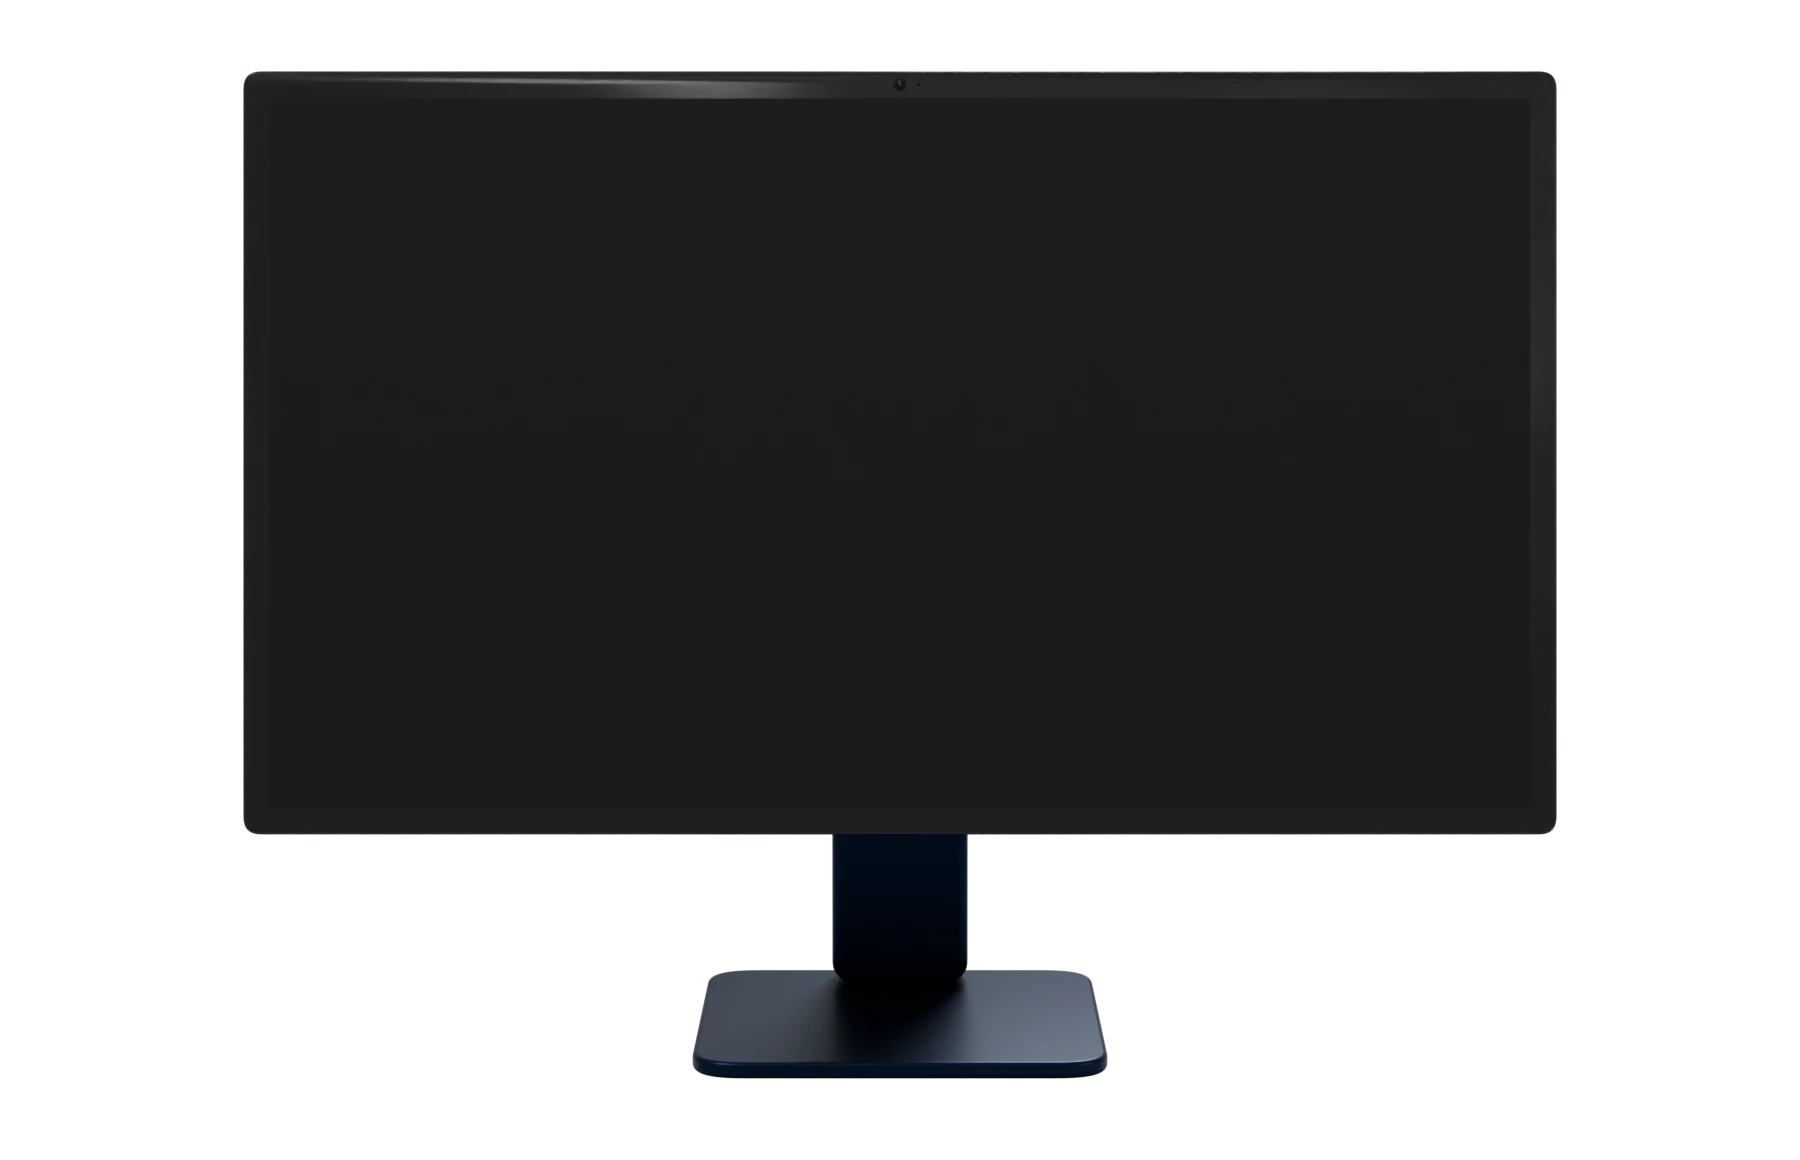
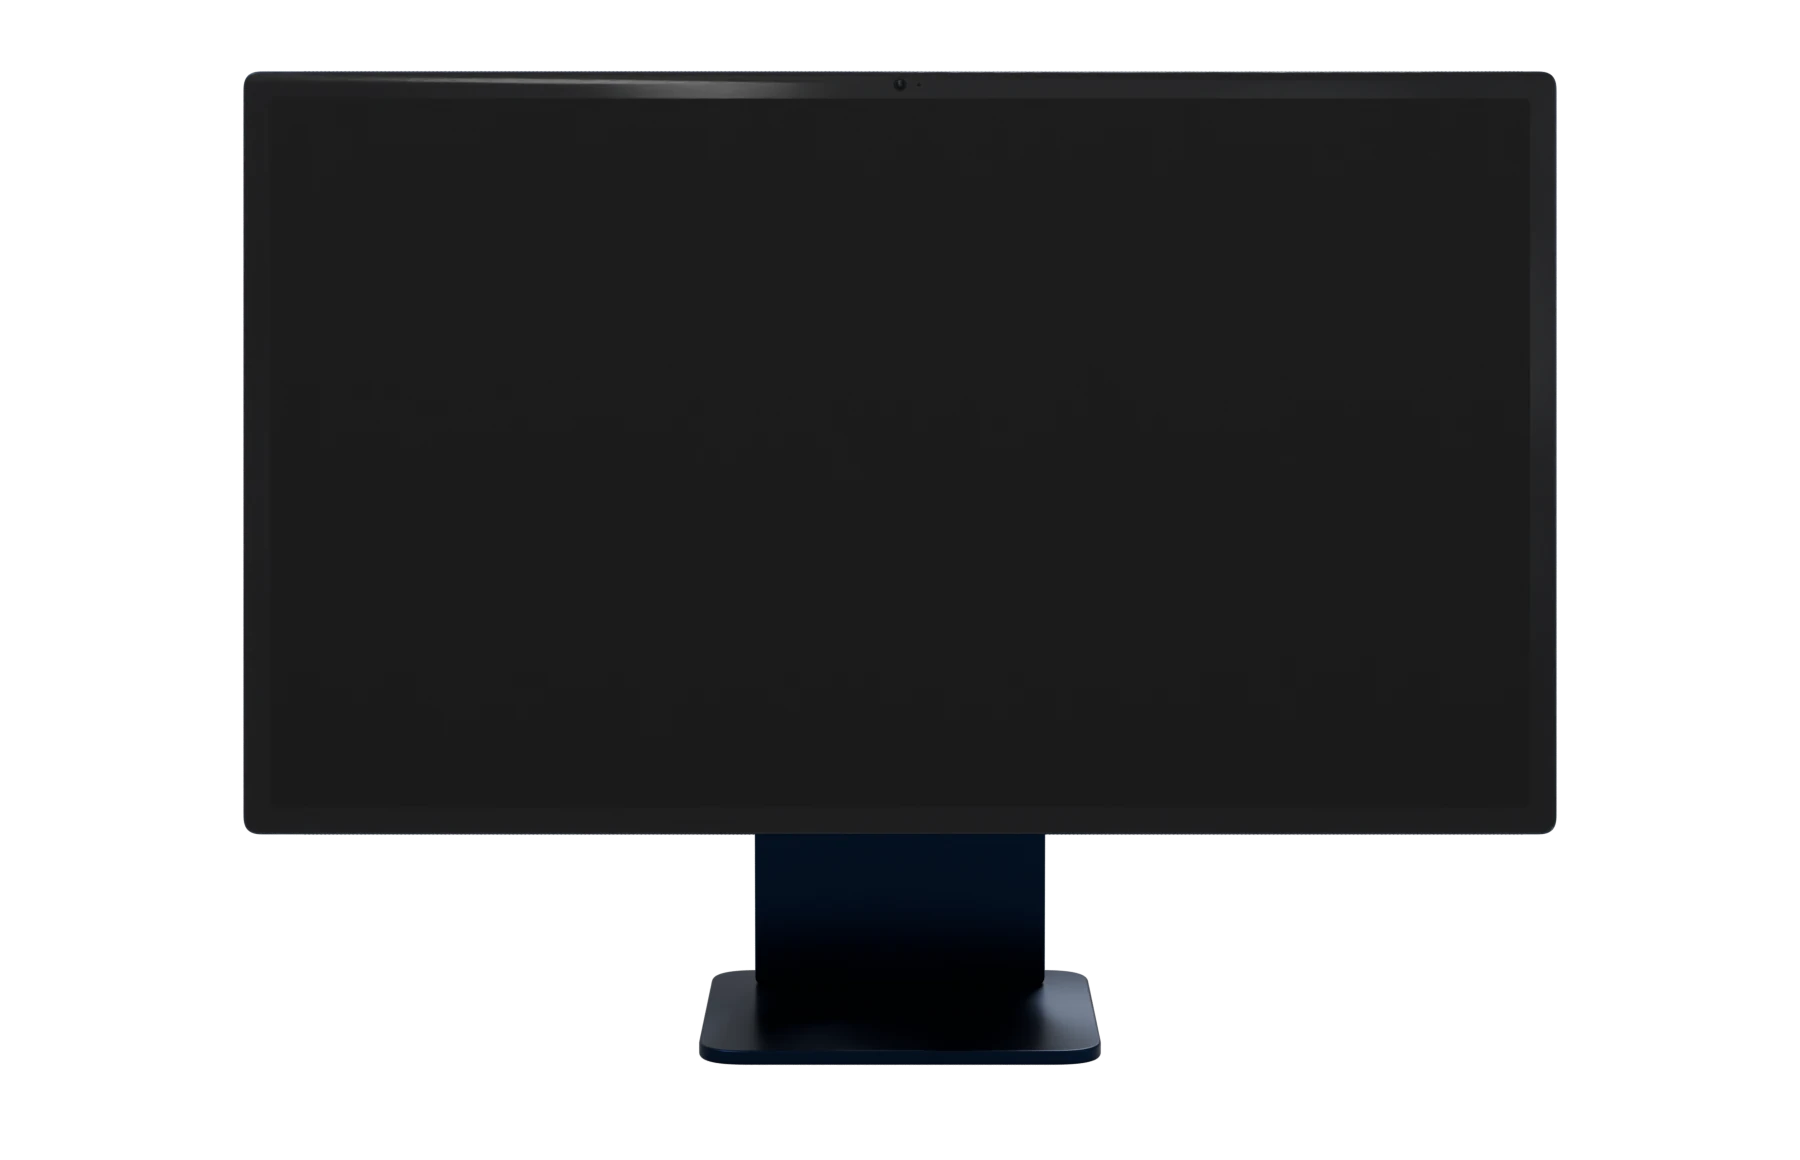
Landing : appareils mis à jour avec les derniers modèles Blender (écran v2, téléphone v4)
- pc.webp : rendu de studio_display_xdr_bleunuit_v2.blend (nouveau pied) ; ph.webp : rendu de
  telephone_promax_bleunuit_v4.blend ; tab.webp inchangé (fichier iPad identique à l'octet près)
- mêmes réglages de rendu qu'avant (Cycles 160 échantillons, vue de face, fond transparent, écran noir) ;
  la dalle des deux modèles est identique : coins de l'écran inchangés dans manifest.json
- manifest.json : « src » nomme le fichier .blend source de chaque image

Claude-Session: https://claude.ai/code/session_01HoSGpfVUjMXuukfnj9qXHr

Changed region(s): [[0.3733, 0.7138, 0.6222, 0.931]]

diff --git a/tests/landing3d.test.js b/tests/landing3d.test.js
@@ -23,6 +23,8 @@ test('landing 3D : manifeste complet, une image WebP de face par appareil, poids
     assert.strictEqual(m.front.length, 4, k + ' : 4 coins de la dalle');
     assert.ok(m.front.every(c => c.length === 2 && c.every(Number.isFinite)), k + ' : coins');
     assert.ok(m.W > 500 && m.H > 500 && m.rad >= 0 && m.down > 0.4 && m.up > 0.4, k + ' : métadonnées');
+    /* traçabilité : le fichier .blend de Pierre dont l'image est le rendu (écran v2, iPad v2, téléphone v4 au 12/11) */
+    assert.ok(/^[\w.-]+\.blend$/.test(m.src), k + ' : fichier source');
     /* dalle rectangulaire de face : coins alignés (translation + échelle suffisent pour y poser le HTML) */
     const f = m.front;
     assert.ok(Math.abs(f[0][1] - f[1][1]) < 1 && Math.abs(f[0][0] - f[3][0]) < 1 && f[1][0] > f[0][0] && f[3][1] > f[0][1], k + ' : dalle de face');

diff --git a/landing/3d/lp3d.js b/landing/3d/lp3d.js
@@ -4,6 +4,8 @@
    texte, cliquable) est posé sur la dalle dont les 4 coins ont été mesurés dans Blender (translation + échelle, pas de
    perspective : texte net). Pendant les transitions, les images se fondent l'une dans l'autre.
    Un 2ᵉ canvas, au-dessus du HTML en mélange « screen », y repose très légèrement les reflets du verre.
+   img/manifest.json : pour chaque appareil, les 4 coins de la dalle dans l'image, son étendue autour de l'écran et « src »,
+   le fichier .blend dont l'image est le rendu (à mettre à jour avec l'image quand Pierre livre une nouvelle version).
    Rien d'externe (CSP) ; si quoi que ce soit échoue, js/23-landing.js garde l'appareil CSS d'origine. */
 const BASE = new URL('./img/', import.meta.url);
 const KEYS = ['pc', 'tab', 'ph'];

diff --git a/COORDINATION.md b/COORDINATION.md
@@ -78,7 +78,7 @@ Tableau exhaustif, la PR la plus récente en haut. Rempli rétroactivement le 20
 
 | PR | Titre | Auteur | Branche | Statut | Résumé + fichiers principaux | Migration SQL |
 |---|---|---|---|---|---|---|
-| (à venir) | Landing : appareils rendus par Blender (écran Studio Display XDR, iPad Pro, iPhone Pro Max) à la place des appareils CSS | Claude | `claude/landing-3d-devices` | **en cours (aperçu Vercel, pas de PR)** | Demande de Pierre (12/11) : utiliser ses fichiers Blender tels quels, appareil FIXE (de face, ni curseur, ni inclinaison, ni flottement). Rendus Cycles/AgX des `.blend` (module `bpy`), fond transparent, écran noir, vue de face : `landing/3d/img/{pc,tab,ph}.webp` + `manifest.json` (coins de la dalle mesurés dans Blender). Le HTML des écrans (`.lp-s`) est posé sur la dalle (translation + échelle, texte net) ; 2ᵉ canvas de reflets du verre au-dessus (`mix-blend-mode:screen`). Ordinateur > 860 px seulement ; repli sur l'appareil CSS si images absentes/lentes ; `?lp3d=off` le coupe. Pas de Three.js. **Audit visuel du 12/11 (Lighthouse, axe-core, règles d'interface Vercel, captures 5 tailles d'écran) — corrections objectives** : (1) accueil toujours sombre, `js/00-theme.js` force `dark` tant que `html.lp-guest` (un OS en mode clair donnait des onglets blancs dans le formulaire, une liste de langues noire sur noir, « cin » invisible dans le logo) ; (2) écrans ≤ 880 px de haut (1366×768, 1280×720, 1536×864) : titre calé sur la hauteur, bouton principal de nouveau visible, pied de l'écran dans le cadre ; (3) plus de repli « lenteur » qui remplaçait l'appareil Blender par l'appareil CSS en cours de page ; (4) typographie française des chaînes `lp.*` (apostrophes courbes, espaces insécables) dans `js/i18n/fr.js` et `index.html` ; (5) chiffres à largeur fixe sur les compteurs. **Suite de l'audit (points 1 à 6 et 8 demandés par Pierre)** : mobile — accueil en bas du premier écran sous l'appareil (le `display:flex` du chapitre 0 manquait depuis le 27/10), marge de 20 px, voile fondu ; paragraphe entier dans le bandeau de texte ; PC et tablette mis en page sur une surface logique plus petite (`LP_DEV_M`) et appareil étendu à la place libre → contenu des écrans ~+50 % ; ordinateur — passage de témoin des textes de chapitre calé sur l'arrivée du texte suivant (plus de colonne vide), appareil à 50 vw × 78 vh, écran final lisible, l'appareil ne bouge plus pendant les premiers pixels de défilement ; accueil mobile ancré en bas par `top:100%` + `translateY(-100%)` (pas par `flex-end`, qui faisait compter tout le bloc comme décalé : CLS 0,19) et boutons empilés sous 480 px (le second passait ou non à la ligne selon la langue) — CLS mobile Lighthouse 0,006 ; poids — liste des langues en police système (`css/app.css` › `.lang-pick`, −404 Ko de polices par visiteur, vaut aussi pour l'application) ; nettoyage — 23 règles mortes et 2 `@keyframes` retirés de `landing/landing.css`, `!important` 49 → 23 (vérifié par comparaison des styles calculés sur 44 états ; seul effet : le mouvement réduit est maintenant respecté sur mobile pour la grille et le bandeau). Tests : `tests/landing-audit.test.js`, `e2e/landing-audit.test.mjs` ; `e2e/preview-handoff.test.mjs` connaît l'extension `.webp`. Fichiers : `landing/3d/`, `js/00-theme.js`, `js/i18n/fr.js`, `index.html` (2 canvas), `js/23-landing.js` (hook dans `frame()`, appareil fixe), `landing/landing.css` (fin de fichier), `tests/landing3d.test.js`, `e2e/landing3d.test.mjs`, `COORDINATION.md`. | Non |
+| (à venir) | Landing : appareils rendus par Blender (écran Studio Display XDR, iPad Pro, iPhone Pro Max) à la place des appareils CSS | Claude | `claude/landing-3d-devices` | **en cours (aperçu Vercel, pas de PR)** | Demande de Pierre (12/11) : utiliser ses fichiers Blender tels quels, appareil FIXE (de face, ni curseur, ni inclinaison, ni flottement). Rendus Cycles/AgX des `.blend` (module `bpy`), fond transparent, écran noir, vue de face : `landing/3d/img/{pc,tab,ph}.webp` + `manifest.json` (coins de la dalle mesurés dans Blender). Le HTML des écrans (`.lp-s`) est posé sur la dalle (translation + échelle, texte net) ; 2ᵉ canvas de reflets du verre au-dessus (`mix-blend-mode:screen`). Ordinateur > 860 px seulement ; repli sur l'appareil CSS si images absentes/lentes ; `?lp3d=off` le coupe. Pas de Three.js. **Audit visuel du 12/11 (Lighthouse, axe-core, règles d'interface Vercel, captures 5 tailles d'écran) — corrections objectives** : (1) accueil toujours sombre, `js/00-theme.js` force `dark` tant que `html.lp-guest` (un OS en mode clair donnait des onglets blancs dans le formulaire, une liste de langues noire sur noir, « cin » invisible dans le logo) ; (2) écrans ≤ 880 px de haut (1366×768, 1280×720, 1536×864) : titre calé sur la hauteur, bouton principal de nouveau visible, pied de l'écran dans le cadre ; (3) plus de repli « lenteur » qui remplaçait l'appareil Blender par l'appareil CSS en cours de page ; (4) typographie française des chaînes `lp.*` (apostrophes courbes, espaces insécables) dans `js/i18n/fr.js` et `index.html` ; (5) chiffres à largeur fixe sur les compteurs. **Suite de l'audit (points 1 à 6 et 8 demandés par Pierre)** : mobile — accueil en bas du premier écran sous l'appareil (le `display:flex` du chapitre 0 manquait depuis le 27/10), marge de 20 px, voile fondu ; paragraphe entier dans le bandeau de texte ; PC et tablette mis en page sur une surface logique plus petite (`LP_DEV_M`) et appareil étendu à la place libre → contenu des écrans ~+50 % ; ordinateur — passage de témoin des textes de chapitre calé sur l'arrivée du texte suivant (plus de colonne vide), appareil à 50 vw × 78 vh, écran final lisible, l'appareil ne bouge plus pendant les premiers pixels de défilement ; accueil mobile ancré en bas par `top:100%` + `translateY(-100%)` (pas par `flex-end`, qui faisait compter tout le bloc comme décalé : CLS 0,19) et boutons empilés sous 480 px (le second passait ou non à la ligne selon la langue) — CLS mobile Lighthouse 0,006 ; modèles Blender mis à jour le 12/11 (écran `studio_display_xdr_bleunuit_v2.blend`, téléphone `telephone_promax_bleunuit_v4.blend` ; iPad inchangé) — mêmes réglages de rendu, dalle identique, `manifest.json` › `src` nomme le fichier source de chaque image ; poids — liste des langues en police système (`css/app.css` › `.lang-pick`, −404 Ko de polices par visiteur, vaut aussi pour l'application) ; nettoyage — 23 règles mortes et 2 `@keyframes` retirés de `landing/landing.css`, `!important` 49 → 23 (vérifié par comparaison des styles calculés sur 44 états ; seul effet : le mouvement réduit est maintenant respecté sur mobile pour la grille et le bandeau). Tests : `tests/landing-audit.test.js`, `e2e/landing-audit.test.mjs` ; `e2e/preview-handoff.test.mjs` connaît l'extension `.webp`. Fichiers : `landing/3d/`, `js/00-theme.js`, `js/i18n/fr.js`, `index.html` (2 canvas), `js/23-landing.js` (hook dans `frame()`, appareil fixe), `landing/landing.css` (fin de fichier), `tests/landing3d.test.js`, `e2e/landing3d.test.mjs`, `COORDINATION.md`. | Non |
 | #143 | Build de déploiement : scripts et CSS minifiés | Claude | `claude/sleepy-hawking-mnfpvg` | **mergée le 08/11** (vérifiée en production le 08/11, voir §6 ; 1ᵉʳ essai en erreur : `scripts/` était dans `.vercelignore`, corrigé avant fusion) | Demande de Pierre (08/11), à condition que les performances ne baissent pas. `scripts/build-static.mjs` (esbuild, espaces/commentaires/syntaxe seulement, SANS renommage d'identifiants) copie le site dans `dist-site/` (`vercel.json` › `buildCommand` + `outputDirectory`) ; `/vendor/` octet pour octet (SRI) ; repli sur le fichier d'origine si la minification échoue. Mesuré : brotli JS 242→185 Ko, CSS 48→38 Ko ; accueil/app pixel-identiques, démarrage -10 à -14 % en local. Dépendance de build `esbuild` (+ `package-lock.json`), tests `tests/build-static.test.js`. | Non |
 | #142 | CLS de l'accueil + vrais logos des plateformes (extension) | Claude | `claude/sleepy-hawking-mnfpvg` | **mergée le 08/11** | Polices préchargées, maquette d'appareil masquée jusqu'à son placement (CLS mobile 0,28 → 0,03) ; logos officiels Simple Icons + Disney+ (svgl) dans l'extension. | Non |
 | #141 | Extension Chrome à la DA | Claude | `claude/sleepy-hawking-mnfpvg` | **mergée le 08/11** | Pilules verre, dégradé P3, cartes arrondies dans `extension/popup.css`. | Non |
